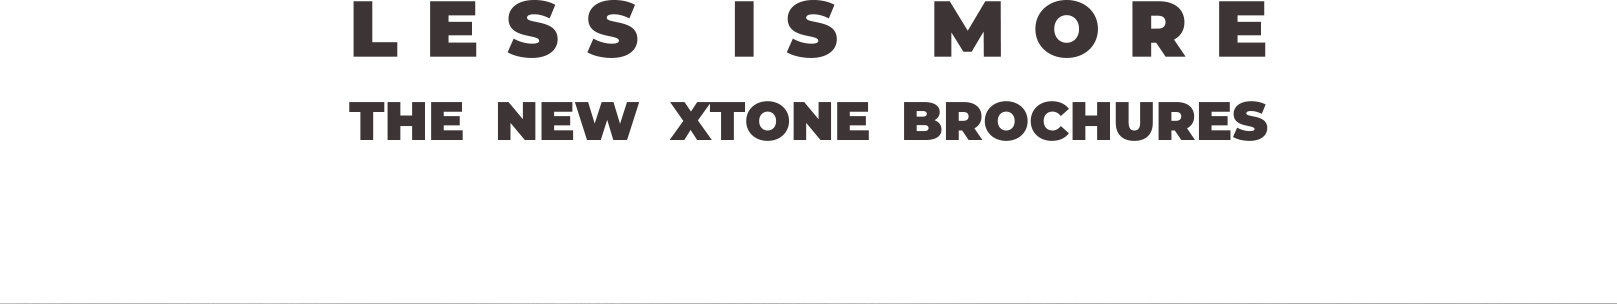
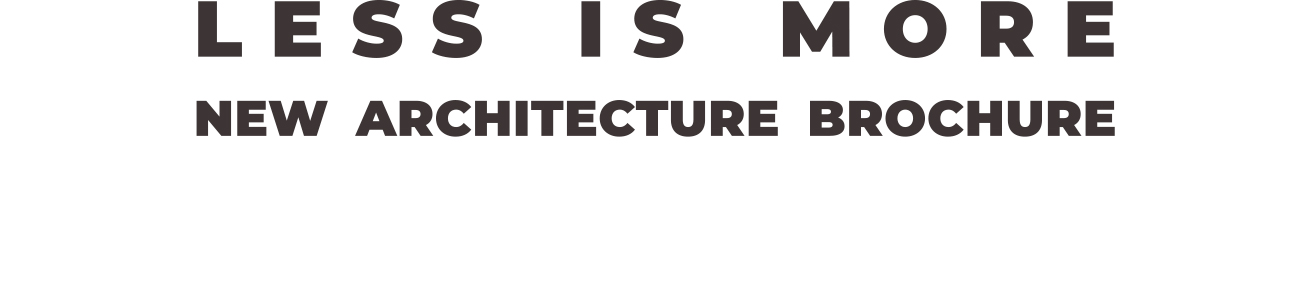
english changes

diff --git a/en/index.html b/en/index.html
@@ -98,7 +98,7 @@ img[class="fluid-image"] {
                       <br>
                       <br>
                       <br>
-                      <span style="color:#000000">Ver este mail en su navegador</span>
+                      <span style="color:#000000">See this mail in your browser</span>
                       <br>
                       <br>
                       <br>
@@ -107,7 +107,7 @@ img[class="fluid-image"] {
                 </span>
               </div>
              
-             		<img src="https://urbatek-mail-abril-arquitectura.netlify.app/src/top.jpg" title="ABRIL 2020 SEGUIMOS CERCA DE TI" alt="ABRIL 2020 SEGUIMOS CERCA DE TI" width="100%" height="auto" class="fluid-image" style="display:block; border:none; outline:none; text-decoration:none; color:#ffffff; font-size:16px; text-align:center; font-family: Arial, Verdana, sans-serif;" border="0">
+             		<img src="https://urbatek-mail-abril-arquitectura.netlify.app/src/top-en.jpg" title="ABRIL 2020 SEGUIMOS CERCA DE TI" alt="ABRIL 2020 SEGUIMOS CERCA DE TI" width="100%" height="auto" class="fluid-image" style="display:block; border:none; outline:none; text-decoration:none; color:#ffffff; font-size:16px; text-align:center; font-family: Arial, Verdana, sans-serif;" border="0">
              
              </td>
            </tr>
@@ -117,7 +117,7 @@ img[class="fluid-image"] {
             <td>
 
               <a href="https://drive.google.com/file/d/1MJCEdKFTSJ1cpxiY80_hyGKu72vkQAtU/view">
-                <img src="https://urbatek-mail-abril-arquitectura.netlify.app/src/img1.jpg" title="ABRIL 2020 SEGUIMOS CERCA DE TI" alt="ABRIL 2020 SEGUIMOS CERCA DE TI" width="100%" height="auto" class="fluid-image" style="display:block; border:none; outline:none; text-decoration:none; color:#ffffff; font-size:16px; text-align:center; font-family: Arial, Verdana, sans-serif;" border="0">
+                <img src="https://urbatek-mail-abril-arquitectura.netlify.app/src/img1-en.jpg" title="ABRIL 2020 SEGUIMOS CERCA DE TI" alt="ABRIL 2020 SEGUIMOS CERCA DE TI" width="100%" height="auto" class="fluid-image" style="display:block; border:none; outline:none; text-decoration:none; color:#ffffff; font-size:16px; text-align:center; font-family: Arial, Verdana, sans-serif;" border="0">
               </a>
             </td>
           </tr>
